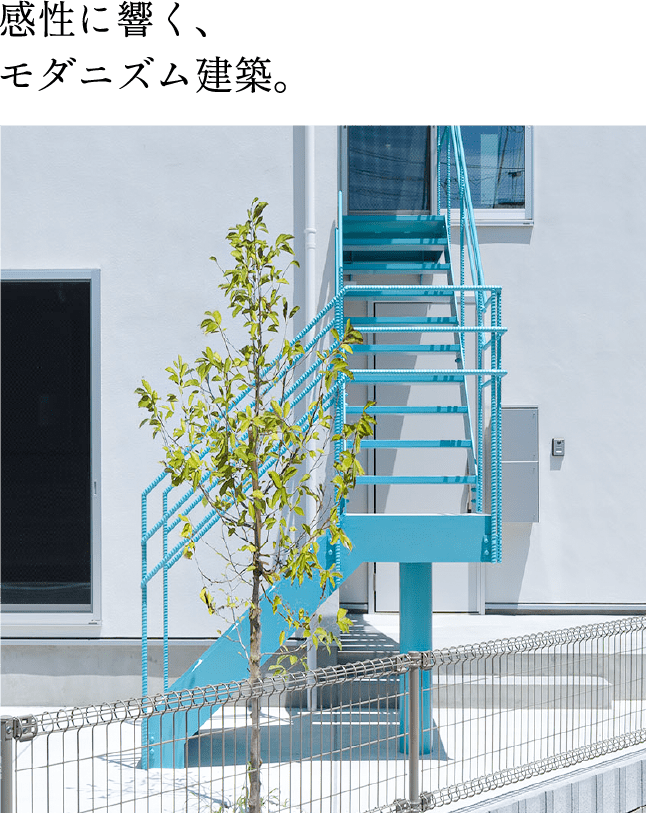
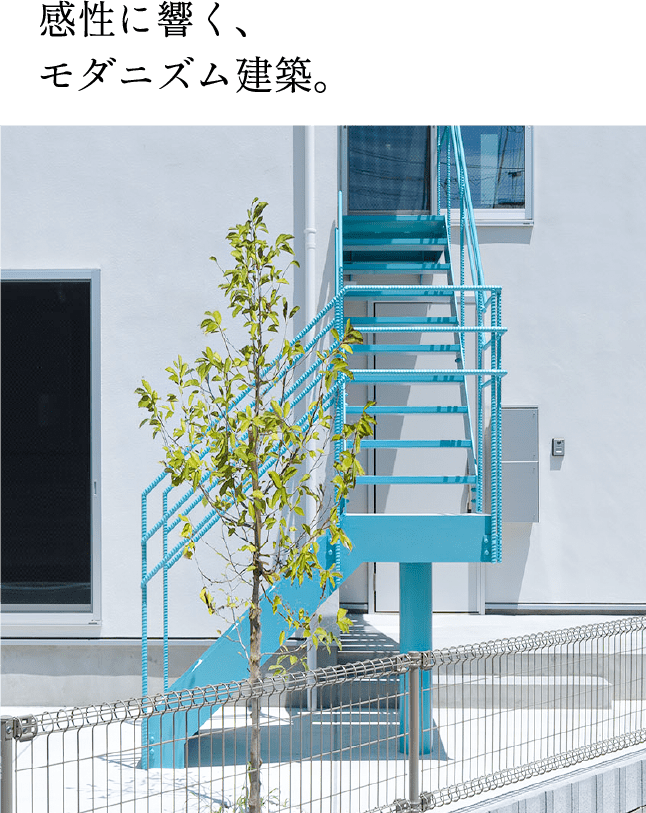
修正

Changed region(s): [[0.0, 0.0, 0.4954, 0.123]]

diff --git a/css/style.css b/css/style.css
@@ -3420,7 +3420,7 @@ button.swiper-pagination-bullet {
 }
 .c-contents.-f-view .c-contentsBox.-f-title {
   position: absolute;
-  top: 32%;
+  top: 30%;
   left: 8%;
   width: 82%;
 }
@@ -3443,7 +3443,7 @@ button.swiper-pagination-bullet {
 }
 .c-contents.-f-view .c-contentsBox.-f-des {
   position: absolute;
-  top: 37.5%;
+  top: 36.5%;
   left: 14%;
   width: 69%;
 }

diff --git a/scss/components/_contents.scss b/scss/components/_contents.scss
@@ -67,7 +67,7 @@
 			// タイトル
 			&.-f-title{
 				position: absolute;
-				top: 32%;
+				top: 30%;
 				left: 8%;
 				width: 82%;
 				@include min(768){
@@ -89,7 +89,7 @@
 			// description
 			&.-f-des{
 				position: absolute;
-				top: 37.5%;
+				top: 36.5%;
 				left: 14%;
 				width: 69%;
 				@include min(768){
